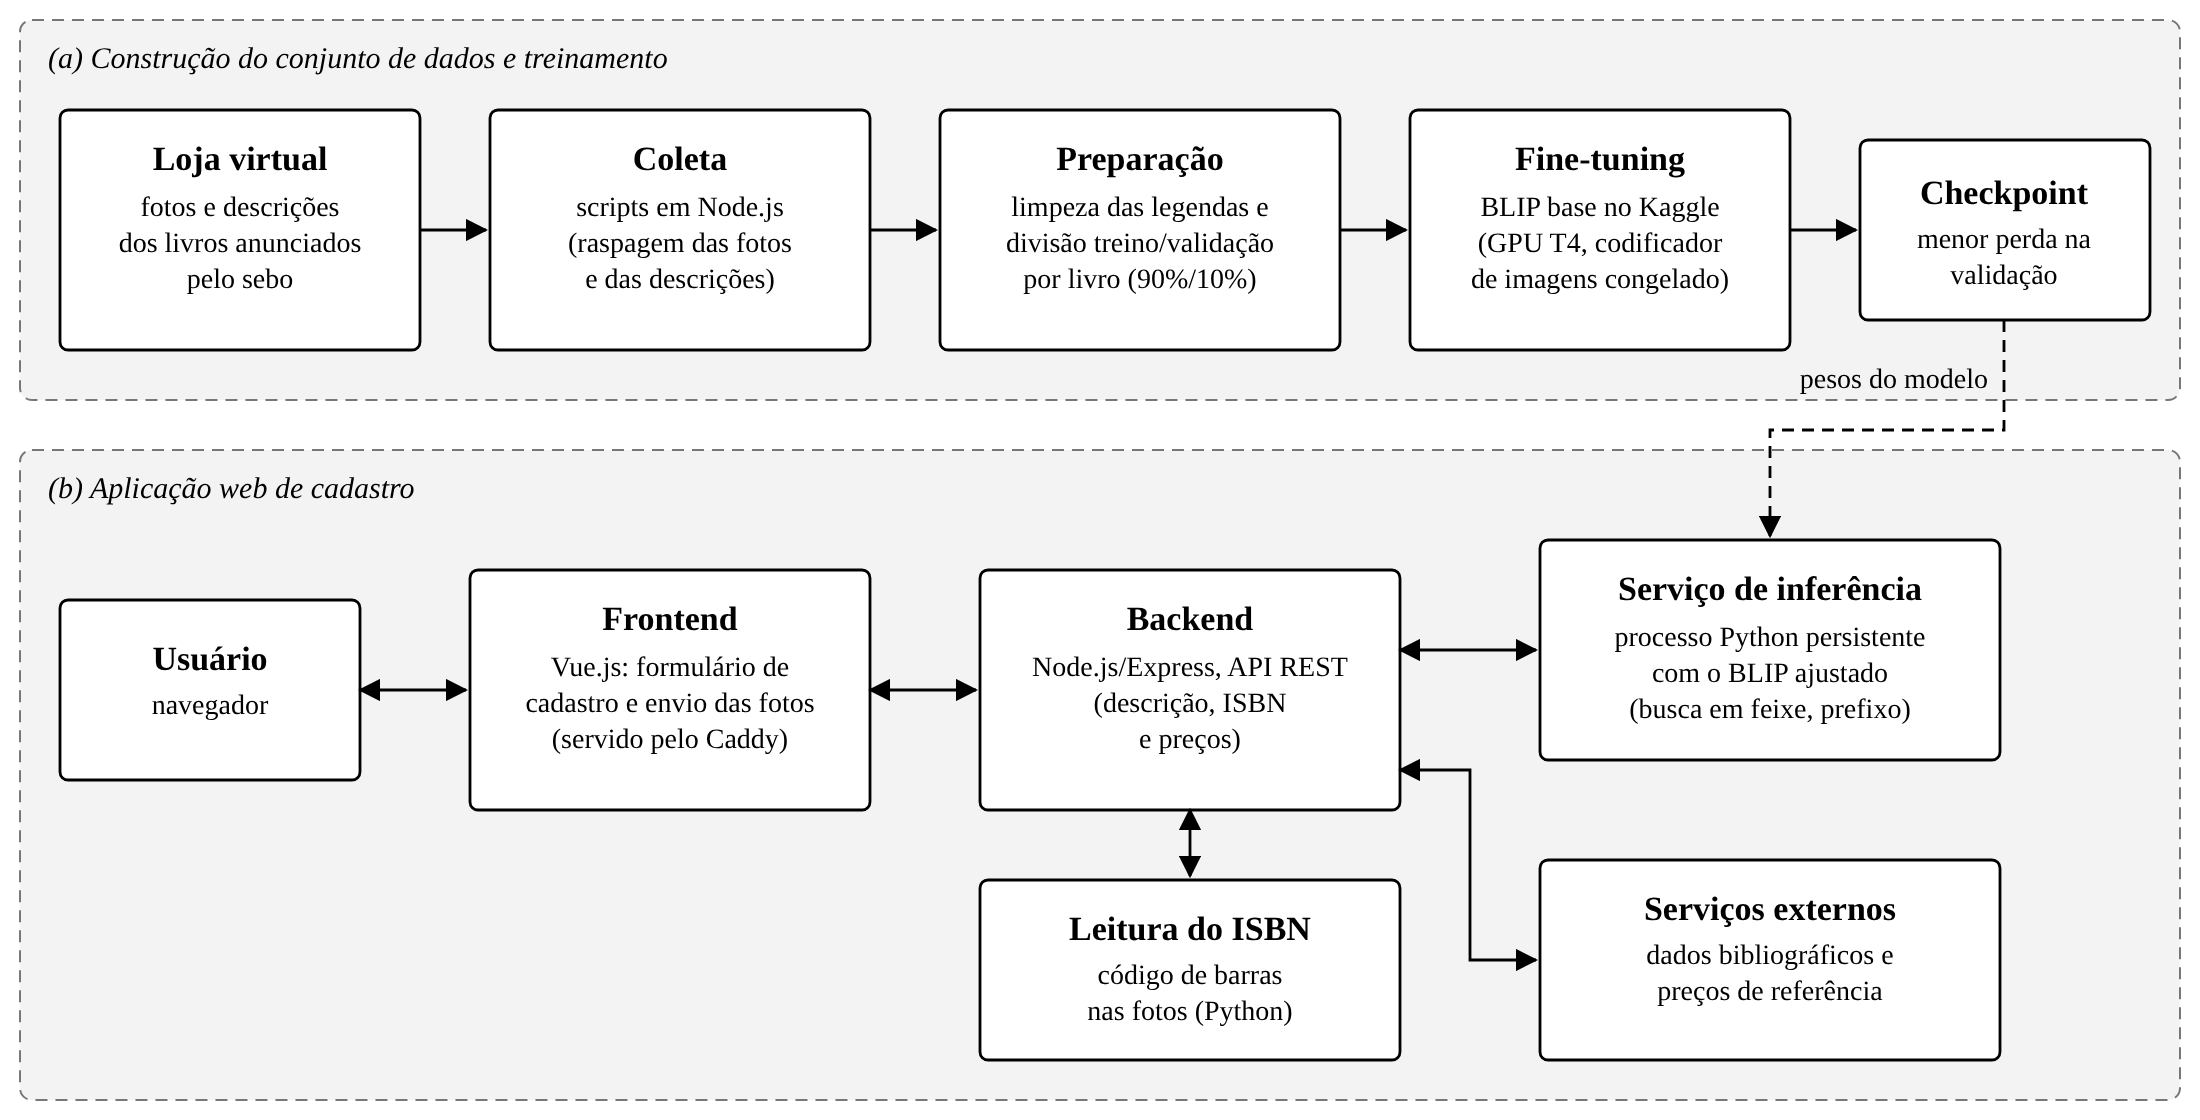
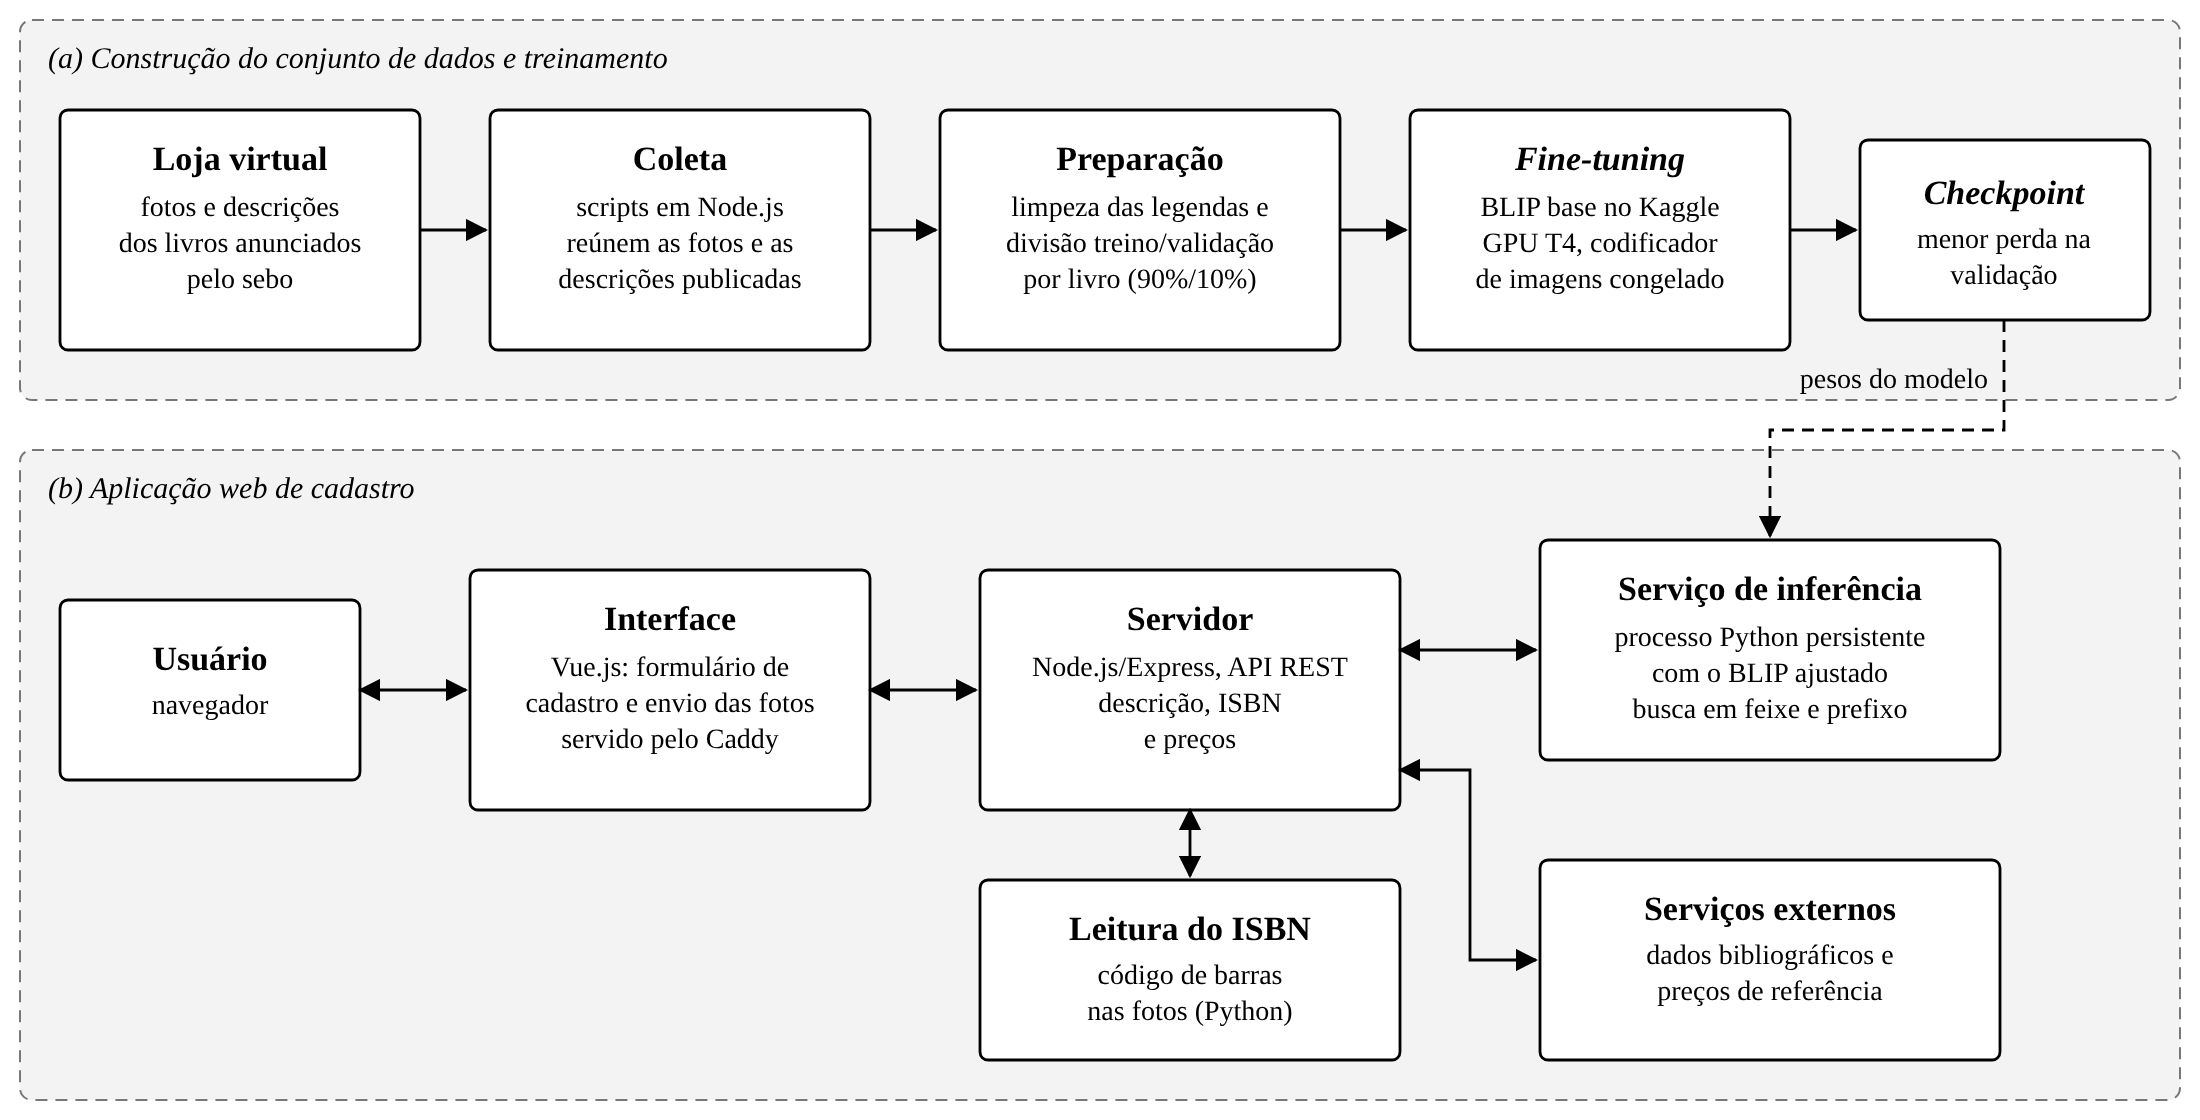
Figura 3.2: remove menção a raspagem e adiciona duas opções em mapa mental
Claude-Session: https://claude.ai/code/session_01G2ZCYjJnTn2y5S8PiJXKFp

diff --git a/docs/monografia/figura-arquitetura-b.html b/docs/monografia/figura-arquitetura-b.html
@@ -1,0 +1,48 @@
+<!doctype html><html><head><meta charset="utf-8"><style>
+body{margin:0;background:#fff}
+text{font-family:"Liberation Serif","Times New Roman",serif;fill:#000}
+.t{font-size:18px;font-weight:bold}.c{font-size:19px;font-weight:bold}.s{font-size:15px}.i{font-style:italic}
+rect.b{fill:#fff;stroke:#000;stroke-width:1.4}
+rect.br{fill:#ececec;stroke:#000;stroke-width:1.6}
+ellipse{fill:#fff;stroke:#000;stroke-width:2}
+path{stroke:#000;stroke-width:1.4;fill:none}
+</style></head><body>
+
+<svg id="d" xmlns="http://www.w3.org/2000/svg" width="1240" height="720" viewBox="0 0 1240 720">
+<ellipse cx="620" cy="360" rx="160" ry="70"/>
+<text class="c" x="620" y="342" text-anchor="middle">Sistema de cadastro</text>
+<text class="c" x="620" y="364" text-anchor="middle">com geração automática</text>
+<text class="c" x="620" y="386" text-anchor="middle">de descrições</text>
+<path d="M550,298 C550,224.0 430,224.0 430,175.0"/>
+<rect class="br" x="330.0" y="125.0" width="200" height="50" rx="8"/><text class="t" x="430" y="156" text-anchor="middle">Dados</text>
+<path d="M330.0,150 C305.0,150 305.0,70 280,70"/>
+<rect class="b" x="20" y="42.0" width="260" height="56" rx="5"/><text class="s" font-weight="bold" x="150.0" y="64.0" text-anchor="middle">Catálogo do sebo</text><text class="s" x="150.0" y="84.0" text-anchor="middle">fotografias e descrições publicadas</text>
+<path d="M330.0,150 C305.0,150 305.0,150 280,150"/>
+<rect class="b" x="20" y="122.0" width="260" height="56" rx="5"/><text class="s" font-weight="bold" x="150.0" y="144.0" text-anchor="middle">Preparação</text><text class="s" x="150.0" y="164.0" text-anchor="middle">limpeza das legendas</text>
+<path d="M330.0,150 C305.0,150 305.0,230 280,230"/>
+<rect class="b" x="20" y="202.0" width="260" height="56" rx="5"/><text class="s" font-weight="bold" x="150.0" y="224.0" text-anchor="middle">Divisão por livro</text><text class="s" x="150.0" y="244.0" text-anchor="middle">90% treino e 10% validação</text>
+<path d="M690,298 C690,224.0 810,224.0 810,175.0"/>
+<rect class="br" x="710.0" y="125.0" width="200" height="50" rx="8"/><text class="t" x="810" y="156" text-anchor="middle">Modelo</text>
+<path d="M910.0,150 C935.0,150 935.0,70 960,70"/>
+<rect class="b" x="960" y="42.0" width="260" height="56" rx="5"/><text class="s" font-weight="bold" x="1090.0" y="64.0" text-anchor="middle">BLIP base</text><text class="s" x="1090.0" y="84.0" text-anchor="middle">pré-treinado em inglês</text>
+<path d="M910.0,150 C935.0,150 935.0,150 960,150"/>
+<rect class="b" x="960" y="122.0" width="260" height="56" rx="5"/><text class="s" font-weight="bold" x="1090.0" y="144.0" text-anchor="middle"><tspan class="i">Fine-tuning</tspan> no Kaggle</text><text class="s" x="1090.0" y="164.0" text-anchor="middle">GPU T4, codificador congelado</text>
+<path d="M910.0,150 C935.0,150 935.0,230 960,230"/>
+<rect class="b" x="960" y="202.0" width="260" height="56" rx="5"/><text class="s" font-weight="bold" x="1090.0" y="224.0" text-anchor="middle"><tspan class="i">Checkpoint</tspan> escolhido</text><text class="s" x="1090.0" y="244.0" text-anchor="middle">menor perda na validação</text>
+<path d="M550,422 C550,496.0 430,496.0 430,545.0"/>
+<rect class="br" x="330.0" y="545.0" width="200" height="50" rx="8"/><text class="t" x="430" y="576" text-anchor="middle">Aplicação web</text>
+<path d="M330.0,570 C305.0,570 305.0,490 280,490"/>
+<rect class="b" x="20" y="462.0" width="260" height="56" rx="5"/><text class="s" font-weight="bold" x="150.0" y="484.0" text-anchor="middle">Interface em Vue.js</text><text class="s" x="150.0" y="504.0" text-anchor="middle">formulário e envio das fotos</text>
+<path d="M330.0,570 C305.0,570 305.0,570 280,570"/>
+<rect class="b" x="20" y="542.0" width="260" height="56" rx="5"/><text class="s" font-weight="bold" x="150.0" y="564.0" text-anchor="middle">Servidor em Node.js</text><text class="s" x="150.0" y="584.0" text-anchor="middle">Express, API REST</text>
+<path d="M330.0,570 C305.0,570 305.0,650 280,650"/>
+<rect class="b" x="20" y="622.0" width="260" height="56" rx="5"/><text class="s" font-weight="bold" x="150.0" y="644.0" text-anchor="middle">Inferência em Python</text><text class="s" x="150.0" y="664.0" text-anchor="middle">busca em feixe e prefixo</text>
+<path d="M690,422 C690,496.0 810,496.0 810,545.0"/>
+<rect class="br" x="710.0" y="545.0" width="200" height="50" rx="8"/><text class="t" x="810" y="576" text-anchor="middle">Dados bibliográficos</text>
+<path d="M910.0,570 C935.0,570 935.0,490 960,490"/>
+<rect class="b" x="960" y="462.0" width="260" height="56" rx="5"/><text class="s" font-weight="bold" x="1090.0" y="484.0" text-anchor="middle">Leitura do ISBN</text><text class="s" x="1090.0" y="504.0" text-anchor="middle">código de barras nas fotos</text>
+<path d="M910.0,570 C935.0,570 935.0,570 960,570"/>
+<rect class="b" x="960" y="542.0" width="260" height="56" rx="5"/><text class="s" font-weight="bold" x="1090.0" y="564.0" text-anchor="middle">APIs de catálogo</text><text class="s" x="1090.0" y="584.0" text-anchor="middle">Google Books, Brasil API, Open Library</text>
+<path d="M910.0,570 C935.0,570 935.0,650 960,650"/>
+<rect class="b" x="960" y="622.0" width="260" height="56" rx="5"/><text class="s" font-weight="bold" x="1090.0" y="644.0" text-anchor="middle">Preços de referência</text><text class="s" x="1090.0" y="664.0" text-anchor="middle">livros semelhantes à venda</text>
+</svg></body></html>

diff --git a/docs/monografia/figura-arquitetura-c.html b/docs/monografia/figura-arquitetura-c.html
@@ -1,0 +1,60 @@
+<!doctype html><html><head><meta charset="utf-8"><style>
+body{margin:0;background:#fff}
+text{font-family:"Liberation Serif","Times New Roman",serif;fill:#000}
+.t{font-size:18px;font-weight:bold}.c{font-size:19px;font-weight:bold}.s{font-size:15px}.i{font-style:italic}
+rect.b{fill:#fff;stroke:#000;stroke-width:1.4}
+rect.br{fill:#ececec;stroke:#000;stroke-width:1.6}
+ellipse{fill:#fff;stroke:#000;stroke-width:2}
+path{stroke:#000;stroke-width:1.4;fill:none}
+</style></head><body>
+
+<svg id="d" xmlns="http://www.w3.org/2000/svg" width="1180" height="860" viewBox="0 0 1180 860">
+<rect class="br" x="20" y="370.0" width="230" height="120" rx="10"/>
+<text class="c" x="135.0" y="410.0" text-anchor="middle">Sistema de cadastro</text>
+<text class="c" x="135.0" y="434.0" text-anchor="middle">com geração automática</text>
+<text class="c" x="135.0" y="458.0" text-anchor="middle">de descrições</text>
+<path d="M250,430.0 C290.0,430.0 290.0,110 330,110"/>
+<rect class="b" x="330" y="83.0" width="210" height="54" rx="8" style="stroke-width:1.8"/><text class="t" x="435.0" y="116" text-anchor="middle">Dados</text>
+<path d="M540,110 C590.0,110 590.0,48 640,48"/>
+<rect class="b" x="640" y="23.0" width="520" height="50" rx="5"/>
+<text class="s" x="654" y="53"><tspan font-weight="bold">Catálogo do sebo:</tspan> fotografias e descrições publicadas</text>
+<path d="M540,110 C590.0,110 590.0,110 640,110"/>
+<rect class="b" x="640" y="85.0" width="520" height="50" rx="5"/>
+<text class="s" x="654" y="115"><tspan font-weight="bold">Preparação:</tspan> limpeza das legendas</text>
+<path d="M540,110 C590.0,110 590.0,172 640,172"/>
+<rect class="b" x="640" y="147.0" width="520" height="50" rx="5"/>
+<text class="s" x="654" y="177"><tspan font-weight="bold">Divisão por livro:</tspan> 90% treino e 10% validação</text>
+<path d="M250,430.0 C290.0,430.0 290.0,323 330,323"/>
+<rect class="b" x="330" y="296.0" width="210" height="54" rx="8" style="stroke-width:1.8"/><text class="t" x="435.0" y="329" text-anchor="middle">Modelo</text>
+<path d="M540,323 C590.0,323 590.0,261 640,261"/>
+<rect class="b" x="640" y="236.0" width="520" height="50" rx="5"/>
+<text class="s" x="654" y="266"><tspan font-weight="bold">BLIP base:</tspan> pré-treinado em inglês</text>
+<path d="M540,323 C590.0,323 590.0,323 640,323"/>
+<rect class="b" x="640" y="298.0" width="520" height="50" rx="5"/>
+<text class="s" x="654" y="328"><tspan font-weight="bold"><tspan class="i">Fine-tuning</tspan> no Kaggle:</tspan> GPU T4, codificador congelado</text>
+<path d="M540,323 C590.0,323 590.0,385 640,385"/>
+<rect class="b" x="640" y="360.0" width="520" height="50" rx="5"/>
+<text class="s" x="654" y="390"><tspan font-weight="bold"><tspan class="i">Checkpoint</tspan> escolhido:</tspan> menor perda na validação</text>
+<path d="M250,430.0 C290.0,430.0 290.0,536 330,536"/>
+<rect class="b" x="330" y="509.0" width="210" height="54" rx="8" style="stroke-width:1.8"/><text class="t" x="435.0" y="542" text-anchor="middle">Aplicação web</text>
+<path d="M540,536 C590.0,536 590.0,474 640,474"/>
+<rect class="b" x="640" y="449.0" width="520" height="50" rx="5"/>
+<text class="s" x="654" y="479"><tspan font-weight="bold">Interface em Vue.js:</tspan> formulário e envio das fotos</text>
+<path d="M540,536 C590.0,536 590.0,536 640,536"/>
+<rect class="b" x="640" y="511.0" width="520" height="50" rx="5"/>
+<text class="s" x="654" y="541"><tspan font-weight="bold">Servidor em Node.js:</tspan> Express, API REST</text>
+<path d="M540,536 C590.0,536 590.0,598 640,598"/>
+<rect class="b" x="640" y="573.0" width="520" height="50" rx="5"/>
+<text class="s" x="654" y="603"><tspan font-weight="bold">Inferência em Python:</tspan> busca em feixe e prefixo</text>
+<path d="M250,430.0 C290.0,430.0 290.0,749 330,749"/>
+<rect class="b" x="330" y="722.0" width="210" height="54" rx="8" style="stroke-width:1.8"/><text class="t" x="435.0" y="755" text-anchor="middle">Dados bibliográficos</text>
+<path d="M540,749 C590.0,749 590.0,687 640,687"/>
+<rect class="b" x="640" y="662.0" width="520" height="50" rx="5"/>
+<text class="s" x="654" y="692"><tspan font-weight="bold">Leitura do ISBN:</tspan> código de barras nas fotos</text>
+<path d="M540,749 C590.0,749 590.0,749 640,749"/>
+<rect class="b" x="640" y="724.0" width="520" height="50" rx="5"/>
+<text class="s" x="654" y="754"><tspan font-weight="bold">APIs de catálogo:</tspan> Google Books, Brasil API, Open Library</text>
+<path d="M540,749 C590.0,749 590.0,811 640,811"/>
+<rect class="b" x="640" y="786.0" width="520" height="50" rx="5"/>
+<text class="s" x="654" y="816"><tspan font-weight="bold">Preços de referência:</tspan> livros semelhantes à venda</text>
+</svg></body></html>

diff --git a/docs/monografia/figura-arquitetura.html b/docs/monografia/figura-arquitetura.html
@@ -1,7 +1,7 @@
 <!doctype html><html><head><meta charset="utf-8"><style>
 body{margin:0;background:#fff}
 text{font-family:"Liberation Serif","Times New Roman",serif;fill:#000}
-.t{font-size:17px;font-weight:bold}.s{font-size:14px}.g{font-size:15px;font-style:italic}
+.t{font-size:17px;font-weight:bold}.s{font-size:14px}.g{font-size:15px;font-style:italic}.i{font-style:italic}
 rect.b{fill:#fff;stroke:#000;stroke-width:1.4}
 rect.grp{fill:#f3f3f3;stroke:#777;stroke-width:1;stroke-dasharray:6 4}
 line,path{stroke:#000;stroke-width:1.4;fill:none}
@@ -21,8 +21,8 @@ line,path{stroke:#000;stroke-width:1.4;fill:none}
 <rect class="b" x="245" y="55" width="190" height="120" rx="4"/>
 <text class="t" x="340" y="85" text-anchor="middle">Coleta</text>
 <text class="s" x="340" y="108" text-anchor="middle">scripts em Node.js</text>
-<text class="s" x="340" y="126" text-anchor="middle">(raspagem das fotos</text>
-<text class="s" x="340" y="144" text-anchor="middle">e das descrições)</text>
+<text class="s" x="340" y="126" text-anchor="middle">reúnem as fotos e as</text>
+<text class="s" x="340" y="144" text-anchor="middle">descrições publicadas</text>
 
 <rect class="b" x="470" y="55" width="200" height="120" rx="4"/>
 <text class="t" x="570" y="85" text-anchor="middle">Preparação</text>
@@ -31,13 +31,13 @@ line,path{stroke:#000;stroke-width:1.4;fill:none}
 <text class="s" x="570" y="144" text-anchor="middle">por livro (90%/10%)</text>
 
 <rect class="b" x="705" y="55" width="190" height="120" rx="4"/>
-<text class="t" x="800" y="85" text-anchor="middle">Fine-tuning</text>
+<text class="t i" x="800" y="85" text-anchor="middle">Fine-tuning</text>
 <text class="s" x="800" y="108" text-anchor="middle">BLIP base no Kaggle</text>
-<text class="s" x="800" y="126" text-anchor="middle">(GPU T4, codificador</text>
-<text class="s" x="800" y="144" text-anchor="middle">de imagens congelado)</text>
+<text class="s" x="800" y="126" text-anchor="middle">GPU T4, codificador</text>
+<text class="s" x="800" y="144" text-anchor="middle">de imagens congelado</text>
 
 <rect class="b" x="930" y="70" width="145" height="90" rx="4"/>
-<text class="t" x="1002" y="102" text-anchor="middle">Checkpoint</text>
+<text class="t i" x="1002" y="102" text-anchor="middle">Checkpoint</text>
 <text class="s" x="1002" y="124" text-anchor="middle">menor perda na</text>
 <text class="s" x="1002" y="142" text-anchor="middle">validação</text>
 <line x1="210" y1="115" x2="243" y2="115" marker-end="url(#a)"/>
@@ -54,22 +54,22 @@ line,path{stroke:#000;stroke-width:1.4;fill:none}
 <text class="s" x="105" y="357" text-anchor="middle">navegador</text>
 
 <rect class="b" x="235" y="285" width="200" height="120" rx="4"/>
-<text class="t" x="335" y="315" text-anchor="middle">Frontend</text>
+<text class="t" x="335" y="315" text-anchor="middle">Interface</text>
 <text class="s" x="335" y="338" text-anchor="middle">Vue.js: formulário de</text>
 <text class="s" x="335" y="356" text-anchor="middle">cadastro e envio das fotos</text>
-<text class="s" x="335" y="374" text-anchor="middle">(servido pelo Caddy)</text>
+<text class="s" x="335" y="374" text-anchor="middle">servido pelo Caddy</text>
 
 <rect class="b" x="490" y="285" width="210" height="120" rx="4"/>
-<text class="t" x="595" y="315" text-anchor="middle">Backend</text>
+<text class="t" x="595" y="315" text-anchor="middle">Servidor</text>
 <text class="s" x="595" y="338" text-anchor="middle">Node.js/Express, API REST</text>
-<text class="s" x="595" y="356" text-anchor="middle">(descrição, ISBN</text>
-<text class="s" x="595" y="374" text-anchor="middle">e preços)</text>
+<text class="s" x="595" y="356" text-anchor="middle">descrição, ISBN</text>
+<text class="s" x="595" y="374" text-anchor="middle">e preços</text>
 
 <rect class="b" x="770" y="270" width="230" height="110" rx="4"/>
 <text class="t" x="885" y="300" text-anchor="middle">Serviço de inferência</text>
 <text class="s" x="885" y="323" text-anchor="middle">processo Python persistente</text>
 <text class="s" x="885" y="341" text-anchor="middle">com o BLIP ajustado</text>
-<text class="s" x="885" y="359" text-anchor="middle">(busca em feixe, prefixo)</text>
+<text class="s" x="885" y="359" text-anchor="middle">busca em feixe e prefixo</text>
 
 <rect class="b" x="490" y="440" width="210" height="90" rx="4"/>
 <text class="t" x="595" y="470" text-anchor="middle">Leitura do ISBN</text>
